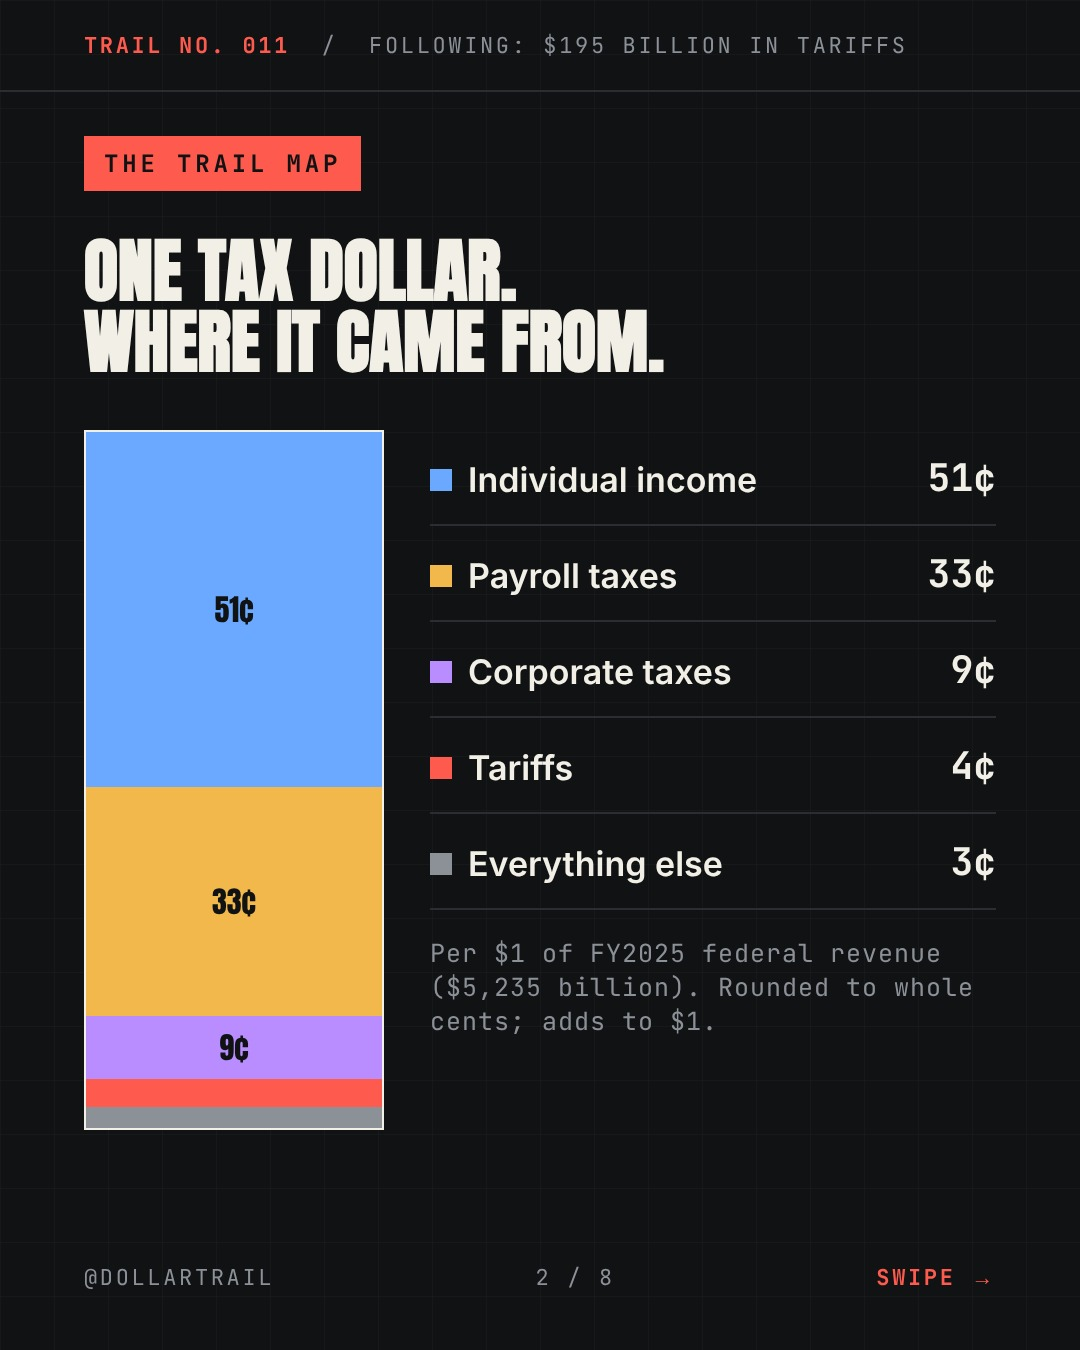
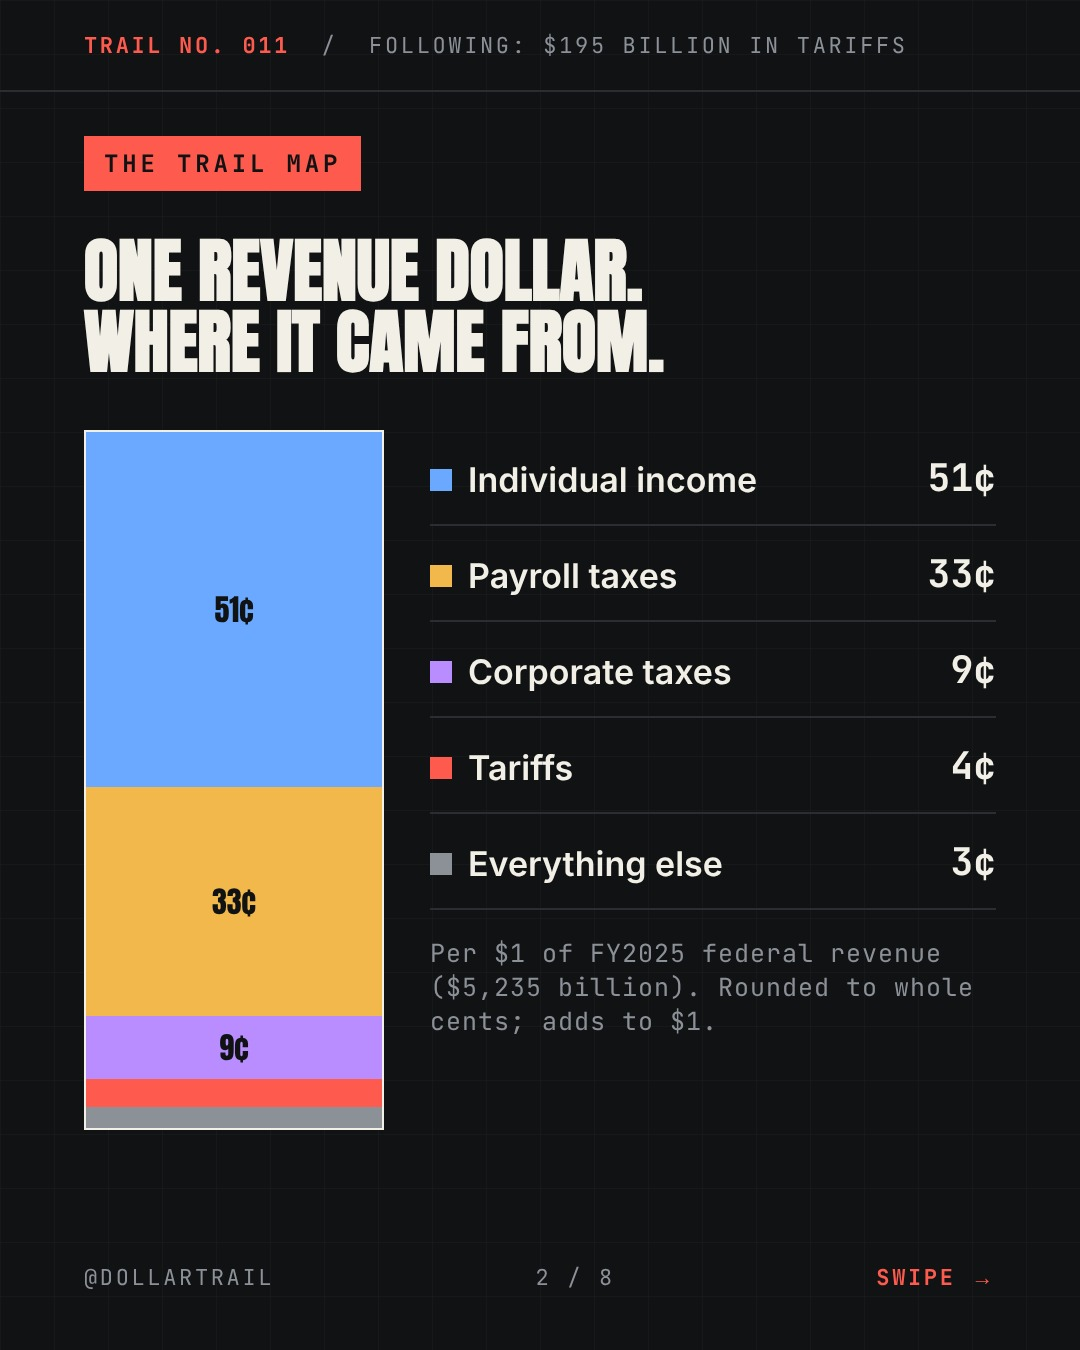
dollartrail 011: say revenue, not tax dollar
Claude-Session: https://claude.ai/code/session_014m3LgpBXpS43SPuvC71tnf

Changed region(s): [[0.1833, 0.1556, 0.5806, 0.2489]]

diff --git a/posts/dollartrail/011-tariff-revenue.py b/posts/dollartrail/011-tariff-revenue.py
@@ -7,7 +7,7 @@ FOLLOWING = '$195 billion in tariffs'
 SOURCES = ['https://www.cbo.gov/publication/61307',
            'https://www.cbo.gov/system/files/2025-11/61307-MBR-FY25-final.pdf']
 
-CAPTION = """Customs duties brought in $195 billion in fiscal 2025, up from $77 billion the year before. That's still about 4 cents of every federal tax dollar.
+CAPTION = """Customs duties brought in $195 billion in fiscal 2025, up from $77 billion the year before. That's still about 4 cents of every dollar of federal revenue.
 
 Data: Congressional Budget Office, Monthly Budget Review: Summary for Fiscal Year 2025 (Nov. 2025). Fiscal year = Oct. 2024 to Sept. 2025.
 
@@ -20,7 +20,7 @@ SLIDES = [
     stack([(51, BL, "51&cent;"), (33, Y, "33&cent;"), (9, P, "9&cent;"), (4, R, ""), (3, W, "")],
           [("Individual income", "51&cent;", BL), ("Payroll taxes", "33&cent;", Y), ("Corporate taxes", "9&cent;", P), ("Tariffs", "4&cent;", R), ("Everything else", "3&cent;", W)],
           "Per $1 of FY2025 federal revenue ($5,235 billion). Rounded to whole cents; adds to $1.",
-          "One tax dollar.<br>Where it came from.", height=700),
+          "One revenue dollar.<br>Where it came from.", height=700),
     stop(1, 4, "The jump", "+153%", "$77B IN FY2024 &rarr; $195B IN FY2025",
          ["Customs receipts rose by $118 billion in one year."],
          "CBO: the increase is the result of larger tariffs imposed since February on most imported goods.", R),
@@ -33,5 +33,5 @@ SLIDES = [
          "Tariff money rose $118 billion, but spending rose $275 billion. The deficit shrank just $41 billion.", BL),
     '<div class=tag>Detour</div>\n<h2>Customs duties,<br>three years</h2>\n' + cmp([(80, "$80B", False), (77, "$77B", False), (195, "$195B", True)],
         ["FY2023", "FY2024", "FY2025"]) + '\n<div class=mini style="margin-top:24px">CBO, Monthly Budget Review, Table 2. Billions of dollars, fiscal years.</div>',
-    '<div class=tag>End of the trail</div>\n<div class=hook style="font-size:92px">$195 billion.<br><em>About 4&cent; of every tax dollar.</em></div>\n<div class=cta>Send this to the friend<br>who argues about <em>tariffs.</em></div>\n<div class=src>' + DT_FOLLOW + '<br><br>Source: Congressional Budget Office, &ldquo;Monthly Budget Review: Summary for Fiscal Year 2025&rdquo; (Nov. 10, 2025). Customs duties include tariffs. Shares rounded.</div>',
+    '<div class=tag>End of the trail</div>\n<div class=hook style="font-size:92px">$195 billion.<br><em>About 4&cent; of every revenue dollar.</em></div>\n<div class=cta>Send this to the friend<br>who argues about <em>tariffs.</em></div>\n<div class=src>' + DT_FOLLOW + '<br><br>Source: Congressional Budget Office, &ldquo;Monthly Budget Review: Summary for Fiscal Year 2025&rdquo; (Nov. 10, 2025). Customs duties include tariffs. Shares rounded.</div>',
 ]
